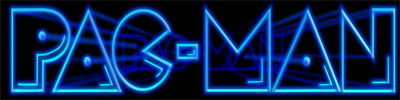
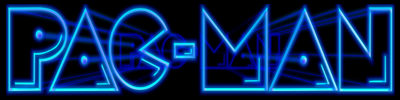
sprite de fantasma agregado

diff --git a/PPacmanUSFX/MapGenerator.cpp b/PPacmanUSFX/MapGenerator.cpp
@@ -10,11 +10,11 @@ MapGenerator::MapGenerator(int _anchoPantalla, int _altoPantalla)
 	fantasma1Texture = new Texture();
 	fantasma1Texture->loadFromImage(pathFantasma1);
 	fantasma2Texture = new Texture();
-	fantasma2Texture->loadFromImage(pathFantasma2);
+	fantasma2Texture->loadFromImage(pathFantasma1);
 	fantasma3Texture = new Texture();
-	fantasma3Texture->loadFromImage(pathFantasma3);
+	fantasma3Texture->loadFromImage(pathFantasma1);
 	fantasma4Texture = new Texture();
-	fantasma4Texture->loadFromImage(pathFantasma4);
+	fantasma4Texture->loadFromImage(pathFantasma1);
 	frutasTextures = new Texture();
 	frutasTextures->loadFromImage(pathFrutas);
 	coinTexture = new Texture();
@@ -69,7 +69,19 @@ bool MapGenerator::load(string path)
 				newObject->setParametrosAnimacion(6);
 				break;
 			case 'b':
-				newObject = new Fantasma(fantasma1Texture, 0, 0, 25, 25, anchoPantalla, altoPantalla, 3);
+				newObject = new Fantasma(fantasma1Texture, x * 25, y * 25, 25, 25, anchoPantalla, altoPantalla, 3);
+				newObject->setParametrosAnimacion(4);
+				break;
+			case 'c':
+				newObject = new Fantasma(fantasma2Texture, x * 25, y * 25, 25, 25, anchoPantalla, altoPantalla, 3);
+				newObject->setParametrosAnimacion(4);
+				break;
+			case 'd':
+				newObject = new Fantasma(fantasma3Texture, x * 25, y * 25, 25, 25, anchoPantalla, altoPantalla, 3);
+				newObject->setParametrosAnimacion(4);
+				break;
+			case 'e':
+				newObject = new Fantasma(fantasma4Texture, x * 25, y * 25, 25, 25, anchoPantalla, altoPantalla, 3);
 				newObject->setParametrosAnimacion(4);
 				break;
 			case 'f':

diff --git a/PPacmanUSFX/GameManager.cpp b/PPacmanUSFX/GameManager.cpp
@@ -207,7 +207,7 @@ void GameManager::optionSelect(SDL_Event& e)
 
 void GameManager::brYdr() {
 	if (option == Map) {
-		LevelGameGernerator = new MapGenerator(SCREEN_WIDTH, SCREEN_HEIGHT);
+		LevelGameGernerator = new MapGenerator(SCREEN_WIDTH, SCREEN_HEIGHT - 30);
 		LevelGameGernerator->load("Resources/mapa.txt");
 		LevelGameGernerator->populate(actores);
 	}
